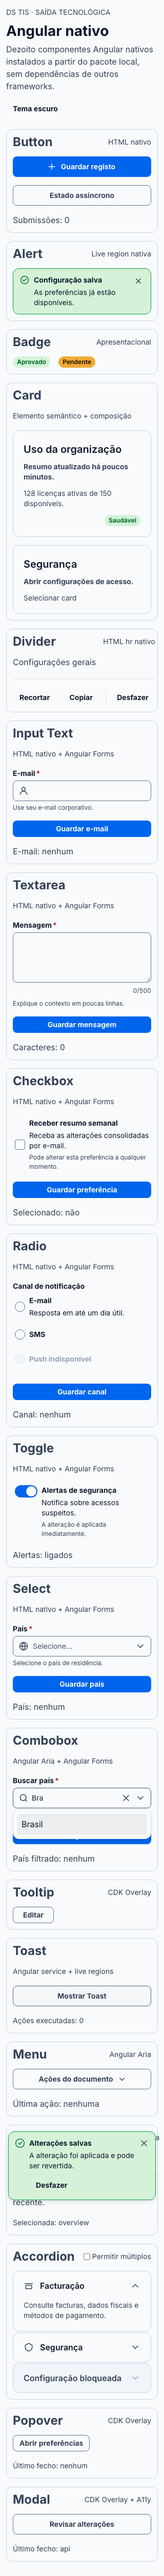
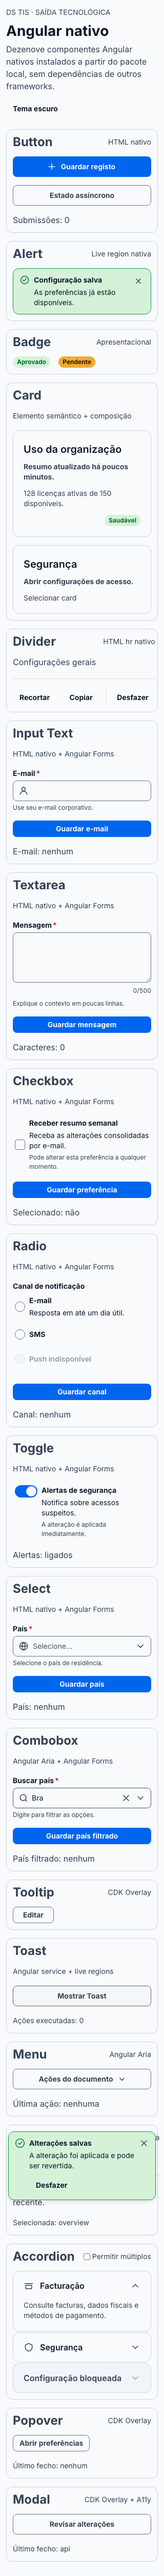
fix(angular): corrige fecho do Combobox e adiciona readonly/clearLabel/:host
Cinco melhorias levantadas por um piloto de avaliação Atlas do TIS Angular
beta, para reduzir o atrito de integração encontrado lá:

- tokens: :root -> :where(:root, :host) nos quatro ficheiros gerados, para
  funcionarem também quando o CSS é adoptado dentro de um Shadow DOM
- TisCombobox: clearLabel configurável (antes fixo em "Limpar seleção")
- TisCheckbox: readonly, replicando o padrão já existente em TisInput
- TisCombobox: popup deixava de sair do DOM depois de fechar; liga-se
  [attr.hidden] directamente a expanded(), não só a
  DeferredContentAware.contentVisible (que o @angular/aria nunca desliga
  sozinho)
- TisCombobox: reabrir sobre um valor já seleccionado e fechar sem escolher
  de novo (Escape ou focusout) perdia a selecção, porque filterMode="manual"
  limpa a selecção quando o <input> fica vazio. open()/close() resincronizam
  query e valor antes de delegar ao Angular ARIA; Escape e focusout nativos
  chamam o fecho directamente (sem passar por esses métodos públicos), por
  isso foram interceptados em fase de captura no host do componente

Closes #79.

Validado: build:angular, test:angular (consumer/unit/bundle/browser com
Axe+teclado+foco), verify:tokens, e o test suite completo do repo (a11y
108 runs, 0 violações). Verificação manual do Escape confirmada num
<tis-combobox> puro no Storybook, sem código Atlas. O fecho por focusout
passa nos testes automáticos mas não foi confirmado manualmente de forma
[…]

Changed region(s): [[0.0938, 0.6833, 0.9062, 0.7143], [0.1562, 0.0, 0.8438, 0.0311]]

diff --git a/packages/angular/combobox/src/combobox.ts b/packages/angular/combobox/src/combobox.ts
@@ -2,11 +2,14 @@ import {
   ChangeDetectionStrategy,
   Component,
   Directive,
+  ElementRef,
+  OnDestroy,
   ViewEncapsulation,
   booleanAttribute,
   computed,
   effect,
   forwardRef,
+  inject,
   input,
   model,
   signal,
@@ -101,7 +104,6 @@ export class TisComboboxIcon {}
         [readonly]="readonly()"
         [firstMatch]="firstMatch()"
         #combobox="ngCombobox"
-        (focusout)="handleFocusOut($event)"
       >
         <div
           class="ds-combobox"
@@ -117,6 +119,7 @@ export class TisComboboxIcon {}
           <input
             class="ds-combobox__input"
             ngComboboxInput
+            #comboboxInput
             type="text"
             autocomplete="off"
             [id]="resolvedId()"
@@ -137,7 +140,7 @@ export class TisComboboxIcon {}
             <button
               class="ds-combobox__clear"
               type="button"
-              aria-label="Limpar seleção"
+              [attr.aria-label]="clearLabel()"
               [hidden]="!hasValue() || isDisabled() || readonly()"
               (pointerdown)="$event.preventDefault()"
               (click)="clear()"
@@ -164,6 +167,7 @@ export class TisComboboxIcon {}
             [readonly]="readonly()"
             [values]="selectedValues()"
             (valuesChange)="handleSelection($event)"
+            [attr.hidden]="!combobox.expanded() || null"
           >
             @for (option of filteredOptions(); track option.value) {
               <li
@@ -187,16 +191,18 @@ export class TisComboboxIcon {}
     </div>
   `,
 })
-export class TisCombobox implements ControlValueAccessor, Validator {
+export class TisCombobox implements ControlValueAccessor, Validator, OnDestroy {
   private readonly generatedId = `tis-combobox-${++nextComboboxId}`;
   private readonly formDisabled = signal(false);
   private readonly ariaCombobox = viewChild(AngularAriaCombobox);
+  private readonly comboboxInputEl = viewChild<ElementRef<HTMLInputElement>>("comboboxInput");
   private onChange: (value: string | null) => void = () => undefined;
   private onTouched: () => void = () => undefined;
   private onValidatorChange: () => void = () => undefined;
 
   readonly ariaDescribedby = input<string | null>(null);
   readonly ariaLabel = input<string | null>(null);
+  readonly clearLabel = input("Limpar seleção");
   readonly disabled = input(false, { transform: booleanAttribute });
   readonly errorMessage = input<string | null>(null);
   readonly helperText = input<string | null>(null);
@@ -236,6 +242,48 @@ export class TisCombobox implements ControlValueAccessor, Validator {
   ].filter(Boolean).join(" ") || null);
   protected readonly resolvedAriaLabel = computed(() => this.ariaLabel() || (!this.showLabel() ? this.label() : null));
 
+  private readonly host = inject<ElementRef<HTMLElement>>(ElementRef);
+
+  /**
+   * `Escape` nativo do `@angular/aria` (`ComboboxPattern.onKeydown`, ligado
+   * via host binding no `ngCombobox`) chama `close()` do pattern
+   * DIRECTAMENTE — não passa por `TisCombobox.close()` (o método público
+   * acima), por isso a correcção nesse método sozinha não protege este
+   * caminho. `filterMode="manual"` limpa a selecção sempre que o `<input>`
+   * não bate com o `searchTerm` de nenhum item; como `open()` limpa a query
+   * ao reabrir sobre um valor já seleccionado (para mostrar a lista
+   * completa), o `<input>` fica vazio e a selecção perdia-se ao premir
+   * Escape sem ter escrito nada. Fase de CAPTURA no próprio host do
+   * componente, acima do `div` onde o Angular ARIA regista o seu handler:
+   * intercepta o Escape antes de esse handler correr, repõe query/valor
+   * (mesma lógica de `close()`) e delega o fecho a `close()`, já seguro.
+   */
+  private readonly interceptEscape = (event: KeyboardEvent) => {
+    if (event.key !== "Escape" || this.isDisabled() || this.readonly()) return;
+    event.preventDefault();
+    event.stopImmediatePropagation();
+    this.close();
+  };
+
+  /**
+   * O mesmo problema do Escape (ver `interceptEscape`) acontece ao sair por
+   * completo do combobox por qualquer outro caminho — clicar fora, Tab para
+   * o próximo campo. `Combobox` (`@angular/aria`) regista o seu próprio
+   * `focusout` no `div.ds-combobox-anchor`, em fase de bolha; intercepta-se
+   * aqui, no host, em fase de captura, antes de esse handler correr.
+   * Substitui o binding de template `(focusout)="handleFocusOut($event)"`
+   * que existia antes nesse `div` (nunca chegaria a correr de qualquer
+   * forma, com a propagação interrompida mais acima) — a chamada a
+   * `onTouched()` que esse método fazia está replicada aqui.
+   */
+  private readonly interceptFocusOut = (event: FocusEvent) => {
+    const related = event.relatedTarget as Node | null;
+    if (related && this.host.nativeElement.contains(related)) return;
+    event.stopImmediatePropagation();
+    this.close();
+    this.onTouched();
+  };
+
   constructor() {
     effect(() => {
       this.required();
@@ -247,6 +295,14 @@ export class TisCombobox implements ControlValueAccessor, Validator {
       if (option && untracked(() => this.query()) !== option.label) this.query.set(option.label);
       if (!option && this.value() !== null) this.value.set(null);
     });
+
+    this.host.nativeElement.addEventListener("keydown", this.interceptEscape, true);
+    this.host.nativeElement.addEventListener("focusout", this.interceptFocusOut, true);
+  }
+
+  ngOnDestroy(): void {
+    this.host.nativeElement.removeEventListener("keydown", this.interceptEscape, true);
+    this.host.nativeElement.removeEventListener("focusout", this.interceptFocusOut, true);
   }
 
   writeValue(value: unknown): void {
@@ -275,11 +331,40 @@ export class TisCombobox implements ControlValueAccessor, Validator {
     this.onValidatorChange = fn;
   }
 
+  /**
+   * Reabrir sobre um valor já seleccionado limpa a query, para a lista
+   * completa aparecer outra vez (o utilizador não devia ter de apagar o
+   * texto à mão para poder escolher outra opção). Só limpa quando a query
+   * ainda reflecte a opção seleccionada (nada digitado entretanto) — não
+   * destrói uma pesquisa em curso se open() for chamado de novo enquanto o
+   * popup já está aberto.
+   */
   open(): void {
-    if (!this.isDisabled() && !this.readonly()) this.ariaCombobox()?.open();
+    if (this.isDisabled() || this.readonly()) return;
+    const option = this.selectedOption();
+    if (option && this.query() === option.label) this.query.set("");
+    this.ariaCombobox()?.open();
   }
 
+  /**
+   * `ngCombobox` usa filterMode="manual": o `close()` do Angular ARIA limpa
+   * a selecção sempre que o `<input>` não bate com o `searchTerm` de nenhum
+   * item. Como `open()` (acima) limpa a query para mostrar a lista completa,
+   * fechar sem escolher nada de novo deixava o `<input>` vazio e perdia a
+   * selecção — mesmo sem o utilizador ter tocado em nada. Antes de delegar o
+   * fecho ao Angular ARIA, repõe a query (modelo E o valor real do elemento
+   * nativo — o ARIA lê `inputEl().value` directamente, não o signal, que só
+   * seria escrito no DOM no próximo ciclo de change detection) para o label
+   * da opção seleccionada, para o Angular ARIA encontrar a correspondência e
+   * não limpar nada.
+   */
   close(): void {
+    const option = this.selectedOption();
+    if (option && this.query() !== option.label) {
+      this.query.set(option.label);
+      const input = this.comboboxInputEl()?.nativeElement;
+      if (input) input.value = option.label;
+    }
     this.ariaCombobox()?.close();
   }
 
@@ -311,10 +396,5 @@ export class TisCombobox implements ControlValueAccessor, Validator {
     const option = this.options().find((item) => item.value === selected);
     this.query.set(option?.label ?? "");
     this.onChange(selected);
-  }
-
-  protected handleFocusOut(event: FocusEvent): void {
-    const anchor = event.currentTarget as HTMLElement;
-    if (!event.relatedTarget || !anchor.contains(event.relatedTarget as Node)) this.onTouched();
   }
 }

diff --git a/packages/angular/checkbox/src/checkbox.ts b/packages/angular/checkbox/src/checkbox.ts
@@ -51,6 +51,7 @@ let nextCheckboxId = 0;
         class="ds-checkbox"
         [class.ds-checkbox--sm]="size() === 'sm'"
         [class.ds-checkbox--lg]="size() === 'lg'"
+        [class.ds-checkbox--readonly]="readonly() && !isDisabled()"
         [id]="resolvedId()"
         [name]="name()"
         [value]="value()"
@@ -61,6 +62,7 @@ let nextCheckboxId = 0;
         [attr.aria-label]="ariaLabel()"
         [attr.aria-describedby]="describedBy()"
         [attr.aria-invalid]="invalid() ? 'true' : null"
+        [attr.aria-readonly]="readonly() && !isDisabled() ? 'true' : null"
         type="checkbox"
         (blur)="handleBlur()"
         (change)="handleChange($event)"
@@ -98,6 +100,7 @@ export class TisCheckbox implements ControlValueAccessor, Validator {
   readonly indeterminate = model(false);
   readonly invalid = input(false, { transform: booleanAttribute });
   readonly name = input<string | null>(null);
+  readonly readonly = input(false, { transform: booleanAttribute });
   readonly required = input(false, { transform: booleanAttribute });
   readonly size = input<TisCheckboxSize>("md");
   readonly value = input("on");
@@ -106,6 +109,7 @@ export class TisCheckbox implements ControlValueAccessor, Validator {
   protected readonly errorId = `${this.generatedId}-error`;
   protected readonly helperId = `${this.generatedId}-helper`;
   protected readonly isDisabled = computed(() => this.disabled() || this.formDisabled());
+  private readonly isLocked = computed(() => this.isDisabled() || this.readonly());
   protected readonly resolvedId = computed(() => this.id() || this.generatedId);
   protected readonly describedBy = computed(() => [
     this.ariaDescribedby(),
@@ -151,6 +155,12 @@ export class TisCheckbox implements ControlValueAccessor, Validator {
 
   protected handleChange(event: Event): void {
     const input = event.currentTarget as HTMLInputElement;
+    if (this.isLocked()) {
+      // readonly nativo não tem efeito em checkbox/radio (spec HTML) — tem
+      // de se repor o estado visual manualmente e não propagar a mudança.
+      input.checked = this.checked();
+      return;
+    }
     this.indeterminate.set(false);
     this.checked.set(input.checked);
     this.onChange(input.checked);

diff --git a/packages/angular/stories/checkbox.stories.ts b/packages/angular/stories/checkbox.stories.ts
@@ -10,6 +10,7 @@ interface CheckboxArgs {
   helperText: string;
   indeterminate: boolean;
   invalid: boolean;
+  readonly: boolean;
   size: TisCheckboxSize;
 }
 
@@ -25,6 +26,7 @@ const meta: Meta<CheckboxArgs> = {
     helperText: "Pode alterar esta preferência a qualquer momento.",
     indeterminate: false,
     invalid: false,
+    readonly: false,
     size: "md",
   },
   argTypes: {
@@ -47,6 +49,7 @@ const meta: Meta<CheckboxArgs> = {
         [helperText]="helperText"
         [indeterminate]="indeterminate"
         [invalid]="invalid"
+        [readonly]="readonly"
         [size]="size"
       >
         Receber resumo semanal
@@ -69,6 +72,7 @@ export const Estados: Story = {
         <tis-checkbox [indeterminate]="true">Seleção parcial</tis-checkbox>
         <tis-checkbox [disabled]="true">Desabilitado</tis-checkbox>
         <tis-checkbox [checked]="true" [disabled]="true">Marcado e desabilitado</tis-checkbox>
+        <tis-checkbox [checked]="true" [readonly]="true">Marcado e só de leitura</tis-checkbox>
         <tis-checkbox [invalid]="true" errorMessage="Selecione esta opção para continuar">
           Aceitar os termos
         </tis-checkbox>

diff --git a/docs/tokens-sync.html b/docs/tokens-sync.html
@@ -60,11 +60,11 @@
   </div>
 
   <div class="ds-section">
-    <span class="ds-sync-status ok">Em dia</span>
+    <span class="ds-sync-status warning">1 aviso(s)</span>
     <div class="ds-sync-meta">
       <div><strong>Versão:</strong> 1.0.0</div>
       <div><strong>Divergências:</strong> 0</div>
-      <div><strong>Avisos:</strong> 0</div>
+      <div><strong>Avisos:</strong> 1</div>
     </div>
   </div>
 
@@ -74,7 +74,14 @@
       <thead>
         <tr><th>Checagem</th><th>Token</th><th>Mensagem</th><th>JSON</th><th>CSS</th></tr>
       </thead>
-      <tbody><tr><td colspan="5" style="text-align:center;color:var(--ds-content-default)">Nenhuma divergência registrada.</td></tr></tbody>
+      <tbody>
+    <tr>
+      <td><code>JSON ↔ Figma</code></td>
+      <td><code>.figma-snapshot.json</code></td>
+      <td>snapshot Figma tem 438h (> 24h). Regenerar via use_figma antes de concluir sync/release.</td>
+      <td><code>—</code></td>
+      <td><code>—</code></td>
+    </tr></tbody>
     </table>
   </div>
 </main>

diff --git a/css/components/checkbox.css b/css/components/checkbox.css
@@ -162,6 +162,20 @@
   color: var(--ds-form-field-label-color-disabled);
 }
 
+/*
+ * Readonly. O atributo HTML `readonly` não tem efeito em checkbox/radio
+ * (fora do escopo de :read-only/:read-write na spec CSS) — o bloqueio da
+ * interacção é feito em JS (ver handleChange em checkbox.ts). Aqui só se
+ * comunica visualmente que não é clicável, sem reutilizar os tokens de cor
+ * de disabled (que comunicam "indisponível", não "consultável mas fixo") e
+ * sem introduzir tokens novos — decisão de cor fica para quem mantém a
+ * paleta, se quiser um tratamento mais distinto no futuro.
+ */
+.ds-checkbox--readonly,
+.ds-checkbox-label:has(.ds-checkbox--readonly) {
+  cursor: default;
+}
+
 /* Error state */
 .ds-checkbox-group--error .ds-checkbox {
   border-color: var(--ds-checkbox-box-border-color-unchecked-error);
